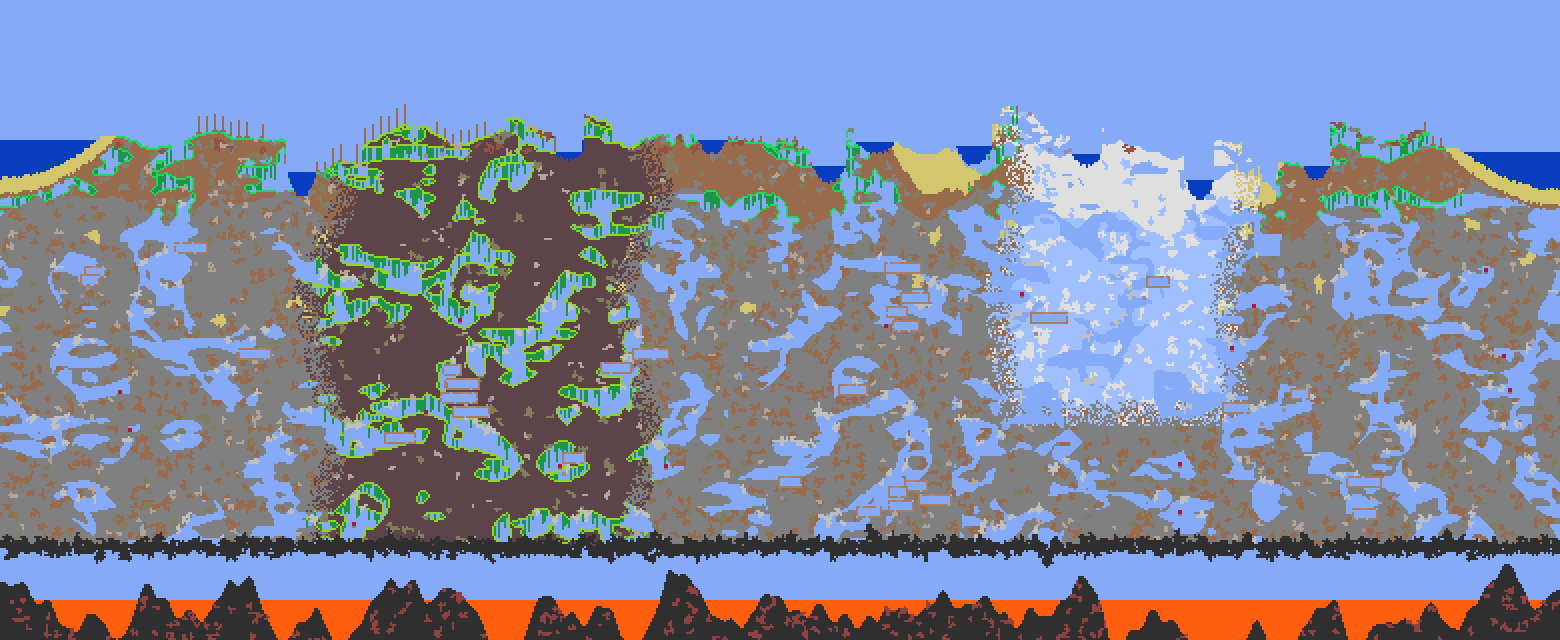
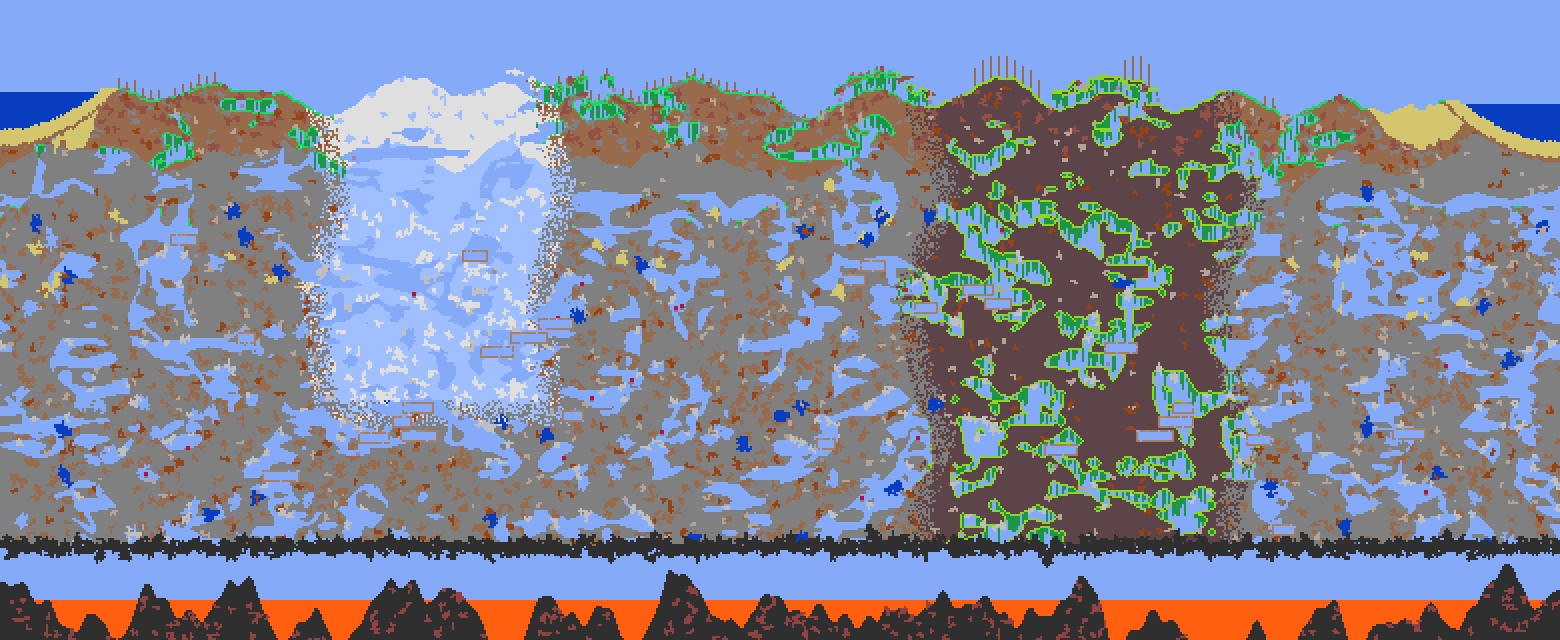
made it better?

diff --git a/util/maptool.py b/util/maptool.py
@@ -200,7 +200,7 @@ def generate():
     for j in range(WORLD_WIDTH):
         print(j)
 
-        sh = 24 + (perlin_gud(j / 60.0, 3.1) + 1) * 30.0 + (perlin_gud(j / 30.0, 4.1) + 1) * 15.0 + (perlin_gud(j / 6.0, 5.1) + 1) * 2.5
+        sh = (perlin_gud(j / 60.0, 3.1) + 1) * 30.0 + (perlin_gud(j / 30.0, 4.1) + 1) * 15.0 + (perlin_gud(j / 6.0, 5.1) + 1) * 2.5
         dh = sh + ((perlin_gud(j / 60.0, 6.1) + 1) * 20.0 + (perlin_gud(j / 30.0, 7.1) + 1) * 10.0 + (perlin_gud(j / 6.0, 8.1) + 1) * 2.0)
         
         for i in range(WORLD_HEIGHT):
@@ -225,7 +225,7 @@ def generate():
                 noise /= 30.0
                 value = math.floor(((((math.sin((j + 90.0 * noise) / 12.0) + 1) * 0.5) * ((math.sin((j + 90.0 * noise) / 12.0) + 1) * 0.5))) * 256.0)
                 
-                if (value >= 160 + lerp(96, 0, i / 175.0)):
+                if (value >= 192 + lerp(32, 0, i / 175.0)):
                     value = 255
                 else:
                     value = 0
@@ -289,28 +289,15 @@ def generate():
         if getTile(x, y) == Tiles.DIRT:
             clump(x, y, poisson(10), Tiles.CLAY, True, 0, 0)
 
-    # print("Small holes")
-    # for i in range(250):
-    #     x = random.randrange(0, WORLD_WIDTH)
-    #     y = random.randrange(WORLD_HEIGHT // 3.2, WORLD_HEIGHT)
-    #     clump(x, y, poisson(50), Tiles.WATER, False, 0, 0)
-    # for i in range(750):
-    #     x = random.randrange(0, WORLD_WIDTH)
-    #     y = random.randrange(WORLD_HEIGHT // 3.2, WORLD_HEIGHT)
-    #     clump(x, y, poisson(50), Tiles.NOTHING, True, 0, 0)
-
-    # A 500-length coord array should be enough for this
-    # print("Caves")
-    # for i in range(150):
-    #     x = random.randrange(0, WORLD_WIDTH)
-    #     y = random.randrange(WORLD_HEIGHT // 3.2, WORLD_HEIGHT)
-    #     clump(x, y, poisson(200), Tiles.NOTHING, True, 0, 0)
-
-    # print("Surface Caves...")
-    # for i in range(150):
-    #     x = random.randrange(0, WORLD_WIDTH)
-    #     y = random.randrange(WORLD_HEIGHT // 4, WORLD_HEIGHT // 2.8)
-    #     clump(x, y, poisson(125), Tiles.NOTHING, True, 0, 0)
+    print("Small holes")
+    for i in range(50):
+        x = random.randrange(0, WORLD_WIDTH)
+        y = random.randrange(WORLD_HEIGHT // 3.2, WORLD_HEIGHT)
+        clump(x, y, poisson(50), Tiles.WATER, False, 0, 0)
+    for i in range(150):
+        x = random.randrange(0, WORLD_WIDTH)
+        y = random.randrange(WORLD_HEIGHT // 3.2, WORLD_HEIGHT)
+        clump(x, y, poisson(50), Tiles.NOTHING, True, 0, 0)
     
     print("Grass")
     for x in range(WORLD_WIDTH):
@@ -389,7 +376,7 @@ def generate():
                         continue
                 if tile == Tiles.STONE:
                     setTile(x + dX + pX, y, Tiles.ICE)
-                elif tile == Tiles.DIRT or tile == Tiles.GRASS or tile == Tiles.SAND:
+                elif tile != Tiles.NOTHING: # == Tiles.DIRT or tile == Tiles.GRASS or tile == Tiles.SAND
                     setTile(x + dX + pX, y, Tiles.SNOW)
                 dX += 1
     for dX in range(width):
@@ -423,7 +410,7 @@ def generate():
                 clump(x, y, poisson(10), Tiles.TIN, True, 0, 0)
 
     print("Lakes")
-    for i in range(max(2, poisson(4))):
+    for i in range(0): # max(2, poisson(4)), lakes are causing some problems rn
         x = random.randrange(75, WORLD_WIDTH - 75)
         width = max(15, poisson(15))
         depth = max(5, poisson(10))
